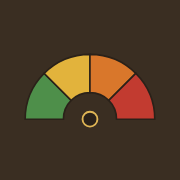
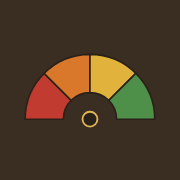
Breach Watch: rename levels (No Chance, Watch, Likely, Imminent) and run the dial red to green
Claude-Session: https://claude.ai/code/session_01X1cJGkJPB8QjCXCRCHDD2d

Changed region(s): [[0.1389, 0.3056, 0.8611, 0.6667]]

diff --git a/devereux/app.js b/devereux/app.js
@@ -281,9 +281,10 @@ const isoDay = (x) => new Date(x * 86400000).toISOString().slice(0, 10);
 // Breach Watch levels, like a fire-danger sign. The model's daily score ranks risk but isn't
 // a calibrated chance (ten recorded breaches), so the page shows levels whose lower bounds
 // come from the held-out record (model-params.json "levels"). Alerts go out at Watch.
-const LEVEL_STYLE = { low: { color: "#4E8F4A", ink: "#fff" }, watch: { color: "#E2B33C", ink: "#1B2530" },
-  warning: { color: "#D9772B", ink: "#fff" }, likely: { color: "#C23B30", ink: "#fff" } };
-let BANDS = [{ key: "low", label: "Low", min: 0 }, { key: "watch", label: "Watch", min: 0.02 }, { key: "warning", label: "Warning", min: 0.2 }, { key: "likely", label: "Likely", min: 0.5 }]
+// a breach is the good news here, so the scale runs red (no chance) to green (imminent)
+const LEVEL_STYLE = { low: { color: "#C23B30", ink: "#fff" }, watch: { color: "#D9772B", ink: "#fff" },
+  warning: { color: "#E2B33C", ink: "#1B2530" }, likely: { color: "#4E8F4A", ink: "#fff" } };
+let BANDS = [{ key: "low", label: "No Chance", min: 0 }, { key: "watch", label: "Watch", min: 0.125 }, { key: "warning", label: "Likely", min: 0.2 }, { key: "likely", label: "Imminent", min: 0.5 }]
   .map((l) => ({ ...l, ...LEVEL_STYLE[l.key] }));
 const setBands = (levels) => { if (levels?.length) BANDS = levels.map((l) => ({ ...l, ...(LEVEL_STYLE[l.key] || LEVEL_STYLE.low) })); };
 const bandOf = (p) => (p == null ? null : [...BANDS].reverse().find((b) => p >= b.min) ?? BANDS[0]);
@@ -308,7 +309,7 @@ function dialSvg(p, off) {
   const b = off ? null : bandOf(p), i = b ? BANDS.indexOf(b) : -1;
   const a = mid(i);
   const [tx, ty] = pt(R - 10, a), [lx, ly] = pt(8, a + Math.PI / 2), [rx, ry] = pt(8, a - Math.PI / 2);
-  return `<svg class="dial" viewBox="0 0 380 186" role="img" aria-label="${off ? "Breach likelihood dial, off while the mouth is open" : `Breach likelihood: ${b.label}`}">
+  return `<svg class="dial" viewBox="-30 0 440 186" role="img" aria-label="${off ? "Breach likelihood dial, off while the mouth is open" : `Breach likelihood: ${b.label}`}">
     ${BANDS.map((bd, k) => `<path d="${wedge(k)}" fill="${bd.color}" opacity="${off ? 0.3 : k === i ? 1 : 0.72}" stroke="#2A2119" stroke-width="2"/>`).join("")}
     ${BANDS.map((bd, k) => {
       const [x, y] = pt(R + 12, mid(k)), c = Math.cos(mid(k));

diff --git a/devereux/index.html b/devereux/index.html
@@ -11,21 +11,21 @@
 	<meta property="og:title" content="Devereux Slough Breach Watch" />
 	<meta property="og:description" content="How likely the Devereux Slough berm is to breach in the next 48 hours and 10 days, from the live slough level and rain forecast." />
 	<meta property="og:url" content="https://garrettgcraig.com/devereux/" />
-	<meta property="og:image" content="https://garrettgcraig.com/devereux/media/og/breach-watch.jpg" />
+	<meta property="og:image" content="https://garrettgcraig.com/devereux/media/og/breach-watch.jpg?v=2" />
 	<meta property="og:image:width" content="1200" />
 	<meta property="og:image:height" content="630" />
-	<meta property="og:image:alt" content="The Devereux Crow beside the Breach Watch dial: Low, Watch, Warning, Likely." />
+	<meta property="og:image:alt" content="The Devereux Crow beside the Breach Watch dial: No Chance, Watch, Likely, Imminent." />
 	<meta name="twitter:card" content="summary_large_image" />
 	<meta name="twitter:title" content="Devereux Slough Breach Watch" />
-	<meta name="twitter:image" content="https://garrettgcraig.com/devereux/media/og/breach-watch.jpg" />
+	<meta name="twitter:image" content="https://garrettgcraig.com/devereux/media/og/breach-watch.jpg?v=2" />
 	<link rel="stylesheet" href="../assets/css/brand.css" />
 	<link rel="preload" as="image" href="media/crow/devereux-crow.webp" />
 	<meta name="theme-color" content="#121A21" />
 	<meta name="apple-mobile-web-app-capable" content="yes" />
 	<script src="../assets/js/darkmode.js"></script>
 	<link rel="stylesheet" href="/devereux/style.css" />
-	<link rel="icon" type="image/svg+xml" href="/devereux/favicon.svg?v=2" />
-	<link rel="apple-touch-icon" href="/devereux/apple-touch-icon.png?v=2" />
+	<link rel="icon" type="image/svg+xml" href="/devereux/favicon.svg?v=3" />
+	<link rel="apple-touch-icon" href="/devereux/apple-touch-icon.png?v=3" />
 	<link rel="manifest" href="/devereux/manifest.webmanifest" />
 	<meta name="apple-mobile-web-app-title" content="Breach Watch" />
 </head>

diff --git a/devereux/model/page.js b/devereux/model/page.js
@@ -33,7 +33,7 @@ const NAMES = { rain_in: "rain that day", rain_prev: "rain the day before", rain
   margin: "level minus berm crest", margin_max: "level minus its highest since closure", maxlvl: "highest level since closure", crest: "berm crest",
   rain_2d: "rain, last 2 days", trail24: "rain, last 24 hours", trail48: "rain, last 48 hours", peak24: "wettest 24 hours of the day" };
 const nice = (m) => m.split(" + ").map((t) => NAMES[t] || t).join(" + ").replace(/^./, (c) => c.toUpperCase());
-const LEVEL_COLOR = { low: "#4E8F4A", watch: "#E2B33C", warning: "#D9772B", likely: "#C23B30" };
+const LEVEL_COLOR = { low: "#C23B30", watch: "#D9772B", warning: "#E2B33C", likely: "#4E8F4A" };
 // Scores span 0.0001 to 1, and the level cutoffs sit at a few percent, so plots use a log scale.
 const LO = 1e-4, lg = (v) => Math.log10(Math.max(LO, v));
 const logTicks = [1e-4, 1e-3, 1e-2, 1e-1, 1];

diff --git a/devereux/style.css b/devereux/style.css
@@ -103,7 +103,7 @@ table.days th { font-weight: 500; color: var(--color-muted); text-align: right; 
 table.days td { text-align: right; padding: 7px 8px; border-top: 1px solid var(--color-border); white-space: nowrap; font-variant-numeric: tabular-nums lining-nums; font-size: 0.88rem; }
 table.days th:first-child, table.days td:first-child { text-align: left; font-family: var(--font-ui); padding-left: 0; }
 table.days tr.today td { font-weight: 600; }
-table.days td.likely { color: var(--gc-clay); } body.dark-mode table.days td.likely { color: #E58A6A; }
+table.days td.likely { color: #3E7A3A; font-weight: 600; } body.dark-mode table.days td.likely { color: #8CCB86; }
 .table-scroll { overflow-x: auto; }
 
 .panels { display: grid; grid-template-columns: repeat(2, minmax(0, 1fr)); gap: clamp(32px, 4vw, 56px) clamp(24px, 4vw, 56px); margin-top: var(--space-6); }

diff --git a/devereux/alerts.js b/devereux/alerts.js
@@ -39,7 +39,7 @@ function niceDay(iso) {
   return new Date(`${iso}T12:00:00Z`).toLocaleDateString("en-US", { timeZone: "UTC", weekday: "long", month: "short", day: "numeric" });
 }
 
-const LEVELS = [{ key: "low", label: "Low", min: 0 }, { key: "watch", label: "Watch", min: 0.02 }, { key: "warning", label: "Warning", min: 0.2 }, { key: "likely", label: "Likely", min: 0.5 }];
+const LEVELS = [{ key: "low", label: "No Chance", min: 0 }, { key: "watch", label: "Watch", min: 0.125 }, { key: "warning", label: "Likely", min: 0.2 }, { key: "likely", label: "Imminent", min: 0.5 }];
 
 /** Text for push and email. Levels, not percentages: the score ranks risk but isn't a calibrated chance. */
 export function alertMessage(status) {

diff --git a/devereux/model/index.html b/devereux/model/index.html
@@ -32,8 +32,8 @@
 		.cols { display: grid; grid-template-columns: minmax(0, 1fr) minmax(0, 1fr); gap: clamp(24px, 4vw, 56px); margin-top: var(--space-4); }
 		@media (max-width: 900px) { .cols { grid-template-columns: 1fr; } }
 	</style>
-	<link rel="icon" type="image/svg+xml" href="/devereux/favicon.svg?v=2" />
-	<link rel="apple-touch-icon" href="/devereux/apple-touch-icon.png?v=2" />
+	<link rel="icon" type="image/svg+xml" href="/devereux/favicon.svg?v=3" />
+	<link rel="apple-touch-icon" href="/devereux/apple-touch-icon.png?v=3" />
 	<link rel="manifest" href="/devereux/manifest.webmanifest" />
 	<meta name="apple-mobile-web-app-title" content="Breach Watch" />
 </head>

diff --git a/devereux/history/index.html b/devereux/history/index.html
@@ -16,8 +16,8 @@
 	<link rel="stylesheet" href="/devereux/style.css" />
 	<meta name="theme-color" content="#121A21" />
 	<script src="/assets/js/darkmode.js"></script>
-	<link rel="icon" type="image/svg+xml" href="/devereux/favicon.svg?v=2" />
-	<link rel="apple-touch-icon" href="/devereux/apple-touch-icon.png?v=2" />
+	<link rel="icon" type="image/svg+xml" href="/devereux/favicon.svg?v=3" />
+	<link rel="apple-touch-icon" href="/devereux/apple-touch-icon.png?v=3" />
 	<link rel="manifest" href="/devereux/manifest.webmanifest" />
 	<meta name="apple-mobile-web-app-title" content="Breach Watch" />
 </head>
